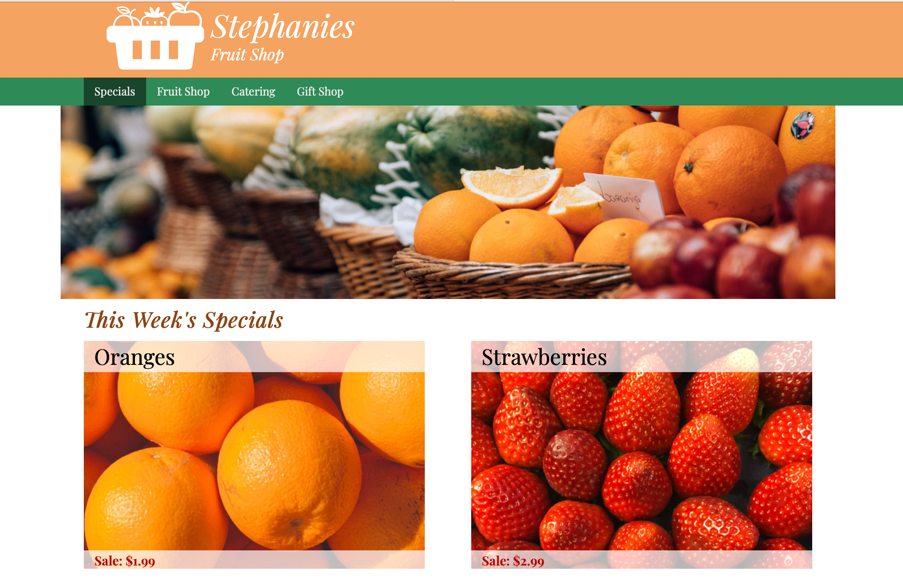
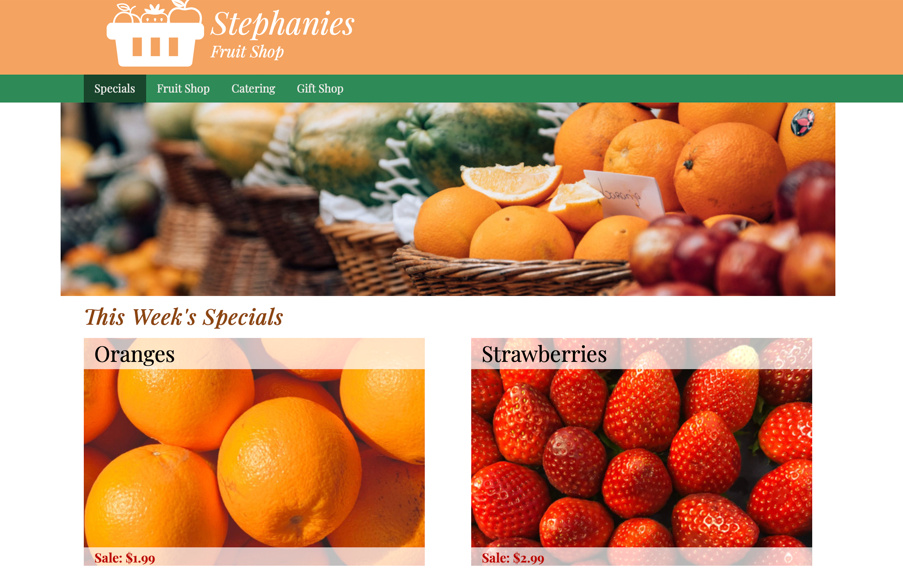
fixed bugs and changed box shadow to red and green
fixed bug section overflow to scroll horisontal. Removed white space in thumbnails and changed box shadow to red and green

diff --git a/index.html b/index.html
@@ -29,7 +29,7 @@
                 <div class="card-image project-1"></div>
                 <div class="link-container">
                     <h3>Package Tracker</h3>
-                    <a href="https://jhellberg.com/portfolio/package-tracker/index.html" target="_blank"><img class="link-bug" src="./images/external-link.png" alt="Live View"></a>
+                    <a href="./portfolio/package-tracker/index.html" target="_blank"><img class="link-bug" src="./images/external-link.png" alt="Live View"></a>
                     <a href="https://github.com/JohanCodeForFun/Package-Tracker" target="_blank"><img class="link-bug" src="./images/GitHub-Mark-32px.png" alt="Github link"></a>
                 </div>
                 <p>
@@ -40,7 +40,7 @@
               <div class="card-image project-3"></div>
               <div class="link-container">
               <h3>Fruit Shop</h3>            
-              <a href="https://jhellberg.com/portfolio/fruit-shop/index.html" target="_blank"><img class="link-bug" src="./images/external-link.png" alt="Live View"></a>
+              <a href="./portfolio/fruit-shop/index.html" target="_blank"><img class="link-bug" src="./images/external-link.png" alt="Live View"></a>
               <a href="https://github.com/JohanCodeForFun/fruit-shop" target="_blank"><img class="link-bug" src="./images/GitHub-Mark-32px.png" alt="Github link"></a>
               </div>
               <p>
@@ -51,7 +51,7 @@
             <div class="card-image project-2"></div>
             <div class="link-container">
             <h3>Memory Game</h3>
-            <a href="https://jhellberg.com/portfolio/memory/index.html" target="_blank"><img class="link-bug" src="./images/external-link.png" alt="Live View"></a>
+            <a href="./portfolio/memory/index.html" target="_blank"><img class="link-bug" src="./images/external-link.png" alt="Live View"></a>
             <a href="https://github.com/JohanCodeForFun/memory" target="_blank"><img class="link-bug" src="./images/GitHub-Mark-32px.png" alt="Github link"></a>
             </div>
             <p>
@@ -62,7 +62,7 @@
             <div class="card-image project-4"></div>
             <div class="link-container">
             <h3>Pomodoro App</h3>            
-            <a href="https://jhellberg.com/portfolio/pomodoro/index.html" target="_blank"><img class="link-bug" src="./images/external-link.png" alt="Live View"></a>
+            <a href="./portfolio/pomodoro/index.html" target="_blank"><img class="link-bug" src="./images/external-link.png" alt="Live View"></a>
             <a href="https://github.com/JohanCodeForFun/pomodoro" target="_blank"><img class="link-bug" src="./images/GitHub-Mark-32px.png" alt="Github link"></a>
             </div>
             <p>

diff --git a/styles.css b/styles.css
@@ -22,7 +22,7 @@ main,
 .developer {
     gap: 6px;
     height: 20vh;
-    width: 100vw;
+    width: 100%;
     background-image: url('./images/hero-2.jpg');
     /* background-size: cover; */
     background-position: center;
@@ -54,23 +54,18 @@ main,
 .contact {
     min-width: 300px;
     flex: 1;
-    box-shadow: 2px 2px 12px black;
+    box-shadow: 2px 2px 12px green;
 }
+.about {
+    box-shadow: 2px 2px 12px red; 
+}
+
 .about h1,
 .contact h1 {
     text-align: center;
     padding: 16px;
 }
 .about p {
-    padding: 16px;
-}
-
-
-.projects,
-.about-container,
-.contact-container  {
-    width: 100vw;
-    justify-content: center;
     padding: 16px;
 }
 
